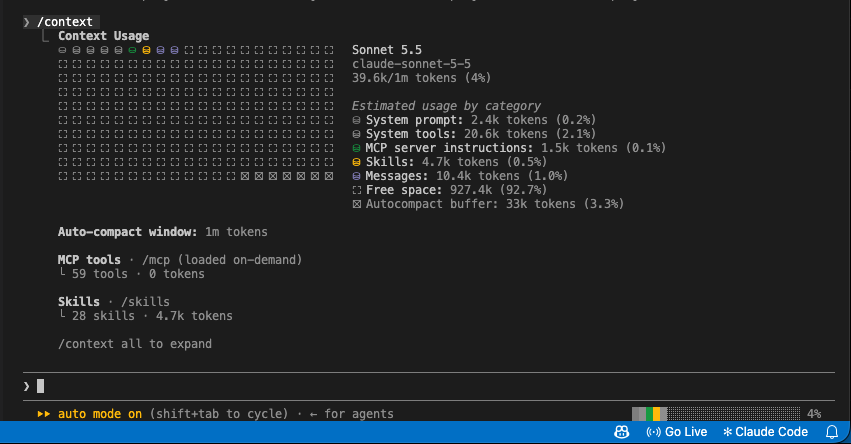
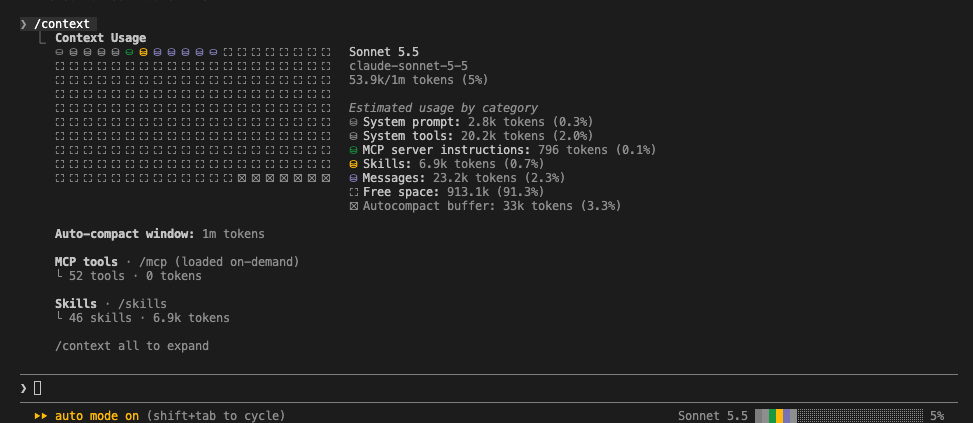
Show model in context bar; drop classic.SessionStart hook
The managed cc-plugin-sec-default hook ends the classic.SessionStart chain
above plugin modules, so ours was skipped with a notice. The /clear refresh
already runs from session.end, so the hook was redundant.

Changed region(s): [[0.0306, 0.0307, 0.7944, 0.5225], [0.0, 0.4917, 1.0, 1.0]]

diff --git a/hooks/register.tsx b/hooks/register.tsx
@@ -105,12 +105,6 @@ export const register: Register = on => {
     return next(e)
   })
 
-  on('classic.SessionStart', async ($, e, next) => {
-    if (e.source === 'clear') void refreshUntilReady($).catch(() => {})
-
-    return next(e)
-  })
-
   on('session.measure', async ($, e, next) => {
     void refresh($).catch(() => {})
 
